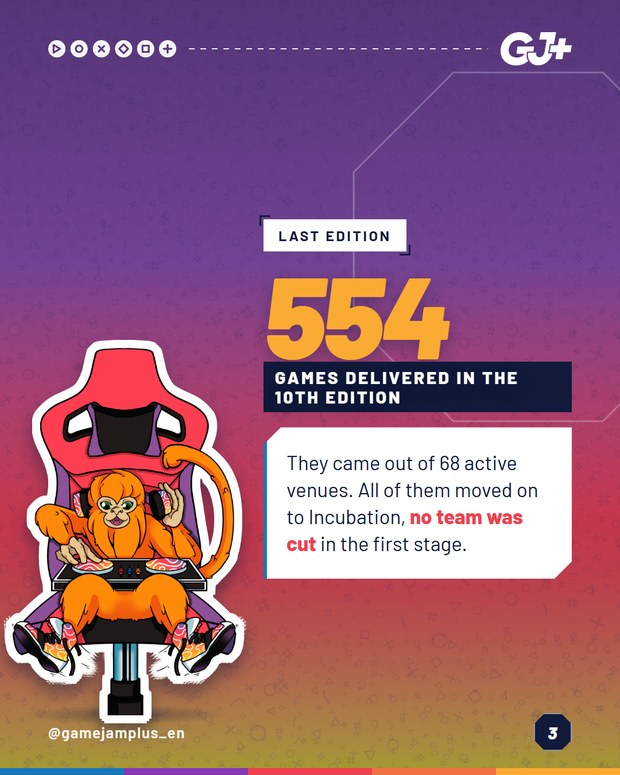
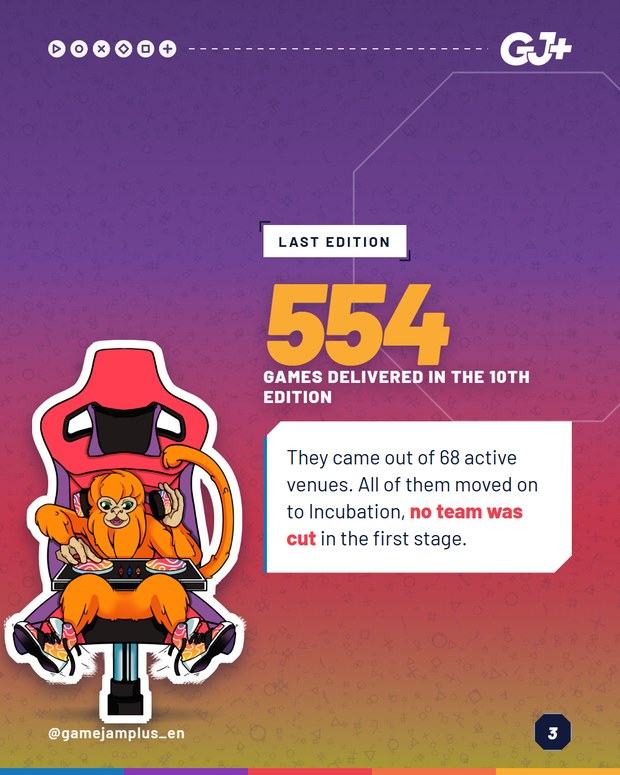
E12 slide 3: rotulo do 554 em branco, igual ao da capa
A chapa de tinta atras de "jogos entregues na 10a edicao" era o unico
lugar do post em que o rotulo de numeral vinha em caixa. Agora e branco
solto, com o mesmo tracking do rotulo da cifra da capa.

Changed region(s): [[0.3984, 0.2787, 0.95, 0.7742]]

diff --git a/index.html b/index.html
@@ -281,7 +281,7 @@ dialog img{width:min(92vw,620px);max-height:92dvh;object-fit:contain;border-radi
 <article class="c" data-cat="01-conteudos-gj" data-lang="PT" data-busca="e12 - o movimento em números gj+" id="c221">
   <header><div><span class="tagcat">GJ+</span><span class="taglang PT">PT</span><h2>E12 - O movimento em números</h2></div>
   <div class="nav"><button aria-label="Anterior" data-d="-1">&#8592;</button><button aria-label="Pr&#243;ximo" data-d="1">&#8594;</button><span class="cont">7</span></div></header>
-  <div class="strip"><figure><img src="img/01-conteudos-gj-pt-e12-o-movimento-em-numeros/slide_01.jpg?v=8" alt="E12 - O movimento em números 1" width="620" height="775" loading="lazy" decoding="async"><figcaption>01</figcaption></figure><figure><img src="img/01-conteudos-gj-pt-e12-o-movimento-em-numeros/slide_02.jpg?v=8" alt="E12 - O movimento em números 2" width="620" height="775" loading="lazy" decoding="async"><figcaption>02</figcaption></figure><figure><img src="img/01-conteudos-gj-pt-e12-o-movimento-em-numeros/slide_03.jpg?v=8" alt="E12 - O movimento em números 3" width="620" height="775" loading="lazy" decoding="async"><figcaption>03</figcaption></figure><figure><img src="img/01-conteudos-gj-pt-e12-o-movimento-em-numeros/slide_04.jpg?v=8" alt="E12 - O movimento em números 4" width="620" height="775" loading="lazy" decoding="async"><figcaption>04</figcaption></figure><figure><img src="img/01-conteudos-gj-pt-e12-o-movimento-em-numeros/slide_05.jpg?v=8" alt="E12 - O movimento em números 5" width="620" height="775" loading="lazy" decoding="async"><figcaption>05</figcaption></figure><figure><img src="img/01-conteudos-gj-pt-e12-o-movimento-em-numeros/slide_06.jpg?v=8" alt="E12 - O movimento em números 6" width="620" height="775" loading="lazy" decoding="async"><figcaption>06</figcaption></figure><figure><img src="img/01-conteudos-gj-pt-e12-o-movimento-em-numeros/slide_07.jpg?v=8" alt="E12 - O movimento em números 7" width="620" height="775" loading="lazy" decoding="async"><figcaption>07</figcaption></figure></div></article>
+  <div class="strip"><figure><img src="img/01-conteudos-gj-pt-e12-o-movimento-em-numeros/slide_01.jpg?v=9" alt="E12 - O movimento em números 1" width="620" height="775" loading="lazy" decoding="async"><figcaption>01</figcaption></figure><figure><img src="img/01-conteudos-gj-pt-e12-o-movimento-em-numeros/slide_02.jpg?v=9" alt="E12 - O movimento em números 2" width="620" height="775" loading="lazy" decoding="async"><figcaption>02</figcaption></figure><figure><img src="img/01-conteudos-gj-pt-e12-o-movimento-em-numeros/slide_03.jpg?v=9" alt="E12 - O movimento em números 3" width="620" height="775" loading="lazy" decoding="async"><figcaption>03</figcaption></figure><figure><img src="img/01-conteudos-gj-pt-e12-o-movimento-em-numeros/slide_04.jpg?v=9" alt="E12 - O movimento em números 4" width="620" height="775" loading="lazy" decoding="async"><figcaption>04</figcaption></figure><figure><img src="img/01-conteudos-gj-pt-e12-o-movimento-em-numeros/slide_05.jpg?v=9" alt="E12 - O movimento em números 5" width="620" height="775" loading="lazy" decoding="async"><figcaption>05</figcaption></figure><figure><img src="img/01-conteudos-gj-pt-e12-o-movimento-em-numeros/slide_06.jpg?v=9" alt="E12 - O movimento em números 6" width="620" height="775" loading="lazy" decoding="async"><figcaption>06</figcaption></figure><figure><img src="img/01-conteudos-gj-pt-e12-o-movimento-em-numeros/slide_07.jpg?v=9" alt="E12 - O movimento em números 7" width="620" height="775" loading="lazy" decoding="async"><figcaption>07</figcaption></figure></div></article>
 <article class="c" data-cat="01-conteudos-gj" data-lang="PT" data-busca="e13 - o que a jam transforma no jogo gj+" id="c222">
   <header><div><span class="tagcat">GJ+</span><span class="taglang PT">PT</span><h2>E13 - O que a jam transforma no jogo</h2></div>
   <div class="nav"><button aria-label="Anterior" data-d="-1">&#8592;</button><button aria-label="Pr&#243;ximo" data-d="1">&#8594;</button><span class="cont">7</span></div></header>
@@ -481,7 +481,7 @@ dialog img{width:min(92vw,620px);max-height:92dvh;object-fit:contain;border-radi
 <article class="c" data-cat="01-conteudos-gj" data-lang="EN" data-busca="e12 - the movement in numbers gj+" id="c224">
   <header><div><span class="tagcat">GJ+</span><span class="taglang EN">EN</span><h2>E12 - The movement in numbers</h2></div>
   <div class="nav"><button aria-label="Anterior" data-d="-1">&#8592;</button><button aria-label="Pr&#243;ximo" data-d="1">&#8594;</button><span class="cont">7</span></div></header>
-  <div class="strip"><figure><img src="img/01-conteudos-gj-en-e12-the-movement-in-numbers/slide_01.jpg?v=8" alt="E12 - The movement in numbers 1" width="620" height="775" loading="lazy" decoding="async"><figcaption>01</figcaption></figure><figure><img src="img/01-conteudos-gj-en-e12-the-movement-in-numbers/slide_02.jpg?v=8" alt="E12 - The movement in numbers 2" width="620" height="775" loading="lazy" decoding="async"><figcaption>02</figcaption></figure><figure><img src="img/01-conteudos-gj-en-e12-the-movement-in-numbers/slide_03.jpg?v=8" alt="E12 - The movement in numbers 3" width="620" height="775" loading="lazy" decoding="async"><figcaption>03</figcaption></figure><figure><img src="img/01-conteudos-gj-en-e12-the-movement-in-numbers/slide_04.jpg?v=8" alt="E12 - The movement in numbers 4" width="620" height="775" loading="lazy" decoding="async"><figcaption>04</figcaption></figure><figure><img src="img/01-conteudos-gj-en-e12-the-movement-in-numbers/slide_05.jpg?v=8" alt="E12 - The movement in numbers 5" width="620" height="775" loading="lazy" decoding="async"><figcaption>05</figcaption></figure><figure><img src="img/01-conteudos-gj-en-e12-the-movement-in-numbers/slide_06.jpg?v=8" alt="E12 - The movement in numbers 6" width="620" height="775" loading="lazy" decoding="async"><figcaption>06</figcaption></figure><figure><img src="img/01-conteudos-gj-en-e12-the-movement-in-numbers/slide_07.jpg?v=8" alt="E12 - The movement in numbers 7" width="620" height="775" loading="lazy" decoding="async"><figcaption>07</figcaption></figure></div></article>
+  <div class="strip"><figure><img src="img/01-conteudos-gj-en-e12-the-movement-in-numbers/slide_01.jpg?v=9" alt="E12 - The movement in numbers 1" width="620" height="775" loading="lazy" decoding="async"><figcaption>01</figcaption></figure><figure><img src="img/01-conteudos-gj-en-e12-the-movement-in-numbers/slide_02.jpg?v=9" alt="E12 - The movement in numbers 2" width="620" height="775" loading="lazy" decoding="async"><figcaption>02</figcaption></figure><figure><img src="img/01-conteudos-gj-en-e12-the-movement-in-numbers/slide_03.jpg?v=9" alt="E12 - The movement in numbers 3" width="620" height="775" loading="lazy" decoding="async"><figcaption>03</figcaption></figure><figure><img src="img/01-conteudos-gj-en-e12-the-movement-in-numbers/slide_04.jpg?v=9" alt="E12 - The movement in numbers 4" width="620" height="775" loading="lazy" decoding="async"><figcaption>04</figcaption></figure><figure><img src="img/01-conteudos-gj-en-e12-the-movement-in-numbers/slide_05.jpg?v=9" alt="E12 - The movement in numbers 5" width="620" height="775" loading="lazy" decoding="async"><figcaption>05</figcaption></figure><figure><img src="img/01-conteudos-gj-en-e12-the-movement-in-numbers/slide_06.jpg?v=9" alt="E12 - The movement in numbers 6" width="620" height="775" loading="lazy" decoding="async"><figcaption>06</figcaption></figure><figure><img src="img/01-conteudos-gj-en-e12-the-movement-in-numbers/slide_07.jpg?v=9" alt="E12 - The movement in numbers 7" width="620" height="775" loading="lazy" decoding="async"><figcaption>07</figcaption></figure></div></article>
 <article class="c" data-cat="01-conteudos-gj" data-lang="EN" data-busca="e13 - what the jam changes in the game gj+" id="c225">
   <header><div><span class="tagcat">GJ+</span><span class="taglang EN">EN</span><h2>E13 - What the jam changes in the game</h2></div>
   <div class="nav"><button aria-label="Anterior" data-d="-1">&#8592;</button><button aria-label="Pr&#243;ximo" data-d="1">&#8594;</button><span class="cont">7</span></div></header>
@@ -549,7 +549,7 @@ dialog img{width:min(92vw,620px);max-height:92dvh;object-fit:contain;border-radi
 <article class="c" data-cat="01-conteudos-gj" data-lang="ES" data-busca="e12 - el movimiento en números gj+" id="c227">
   <header><div><span class="tagcat">GJ+</span><span class="taglang ES">ES</span><h2>E12 - El movimiento en números</h2></div>
   <div class="nav"><button aria-label="Anterior" data-d="-1">&#8592;</button><button aria-label="Pr&#243;ximo" data-d="1">&#8594;</button><span class="cont">7</span></div></header>
-  <div class="strip"><figure><img src="img/01-conteudos-gj-es-e12-el-movimiento-en-numeros/slide_01.jpg?v=8" alt="E12 - El movimiento en números 1" width="620" height="775" loading="lazy" decoding="async"><figcaption>01</figcaption></figure><figure><img src="img/01-conteudos-gj-es-e12-el-movimiento-en-numeros/slide_02.jpg?v=8" alt="E12 - El movimiento en números 2" width="620" height="775" loading="lazy" decoding="async"><figcaption>02</figcaption></figure><figure><img src="img/01-conteudos-gj-es-e12-el-movimiento-en-numeros/slide_03.jpg?v=8" alt="E12 - El movimiento en números 3" width="620" height="775" loading="lazy" decoding="async"><figcaption>03</figcaption></figure><figure><img src="img/01-conteudos-gj-es-e12-el-movimiento-en-numeros/slide_04.jpg?v=8" alt="E12 - El movimiento en números 4" width="620" height="775" loading="lazy" decoding="async"><figcaption>04</figcaption></figure><figure><img src="img/01-conteudos-gj-es-e12-el-movimiento-en-numeros/slide_05.jpg?v=8" alt="E12 - El movimiento en números 5" width="620" height="775" loading="lazy" decoding="async"><figcaption>05</figcaption></figure><figure><img src="img/01-conteudos-gj-es-e12-el-movimiento-en-numeros/slide_06.jpg?v=8" alt="E12 - El movimiento en números 6" width="620" height="775" loading="lazy" decoding="async"><figcaption>06</figcaption></figure><figure><img src="img/01-conteudos-gj-es-e12-el-movimiento-en-numeros/slide_07.jpg?v=8" alt="E12 - El movimiento en números 7" width="620" height="775" loading="lazy" decoding="async"><figcaption>07</figcaption></figure></div></article>
+  <div class="strip"><figure><img src="img/01-conteudos-gj-es-e12-el-movimiento-en-numeros/slide_01.jpg?v=9" alt="E12 - El movimiento en números 1" width="620" height="775" loading="lazy" decoding="async"><figcaption>01</figcaption></figure><figure><img src="img/01-conteudos-gj-es-e12-el-movimiento-en-numeros/slide_02.jpg?v=9" alt="E12 - El movimiento en números 2" width="620" height="775" loading="lazy" decoding="async"><figcaption>02</figcaption></figure><figure><img src="img/01-conteudos-gj-es-e12-el-movimiento-en-numeros/slide_03.jpg?v=9" alt="E12 - El movimiento en números 3" width="620" height="775" loading="lazy" decoding="async"><figcaption>03</figcaption></figure><figure><img src="img/01-conteudos-gj-es-e12-el-movimiento-en-numeros/slide_04.jpg?v=9" alt="E12 - El movimiento en números 4" width="620" height="775" loading="lazy" decoding="async"><figcaption>04</figcaption></figure><figure><img src="img/01-conteudos-gj-es-e12-el-movimiento-en-numeros/slide_05.jpg?v=9" alt="E12 - El movimiento en números 5" width="620" height="775" loading="lazy" decoding="async"><figcaption>05</figcaption></figure><figure><img src="img/01-conteudos-gj-es-e12-el-movimiento-en-numeros/slide_06.jpg?v=9" alt="E12 - El movimiento en números 6" width="620" height="775" loading="lazy" decoding="async"><figcaption>06</figcaption></figure><figure><img src="img/01-conteudos-gj-es-e12-el-movimiento-en-numeros/slide_07.jpg?v=9" alt="E12 - El movimiento en números 7" width="620" height="775" loading="lazy" decoding="async"><figcaption>07</figcaption></figure></div></article>
 <article class="c" data-cat="01-conteudos-gj" data-lang="ES" data-busca="e13 - lo que la jam cambia en el juego gj+" id="c228">
   <header><div><span class="tagcat">GJ+</span><span class="taglang ES">ES</span><h2>E13 - Lo que la jam cambia en el juego</h2></div>
   <div class="nav"><button aria-label="Anterior" data-d="-1">&#8592;</button><button aria-label="Pr&#243;ximo" data-d="1">&#8594;</button><span class="cont">7</span></div></header>

diff --git a/p/e12-es/index.html b/p/e12-es/index.html
@@ -10,7 +10,7 @@
 <meta property="og:site_name" content="GameJamPlus · carrosséis">
 <meta property="og:title" content="E12 - El movimiento en números">
 <meta property="og:description" content="GameJamPlus está en 73 sedes repartidas por 28 países en esta 11ª edición, de Brasil a Zambia, pasando por Suecia y Bangladés. Cada una de esas sedes fu...">
-<meta property="og:image" content="https://gamejamplus-carrosseis.vercel.app/img/01-conteudos-gj-es-e12-el-movimiento-en-numeros/slide_01.jpg?v=8">
+<meta property="og:image" content="https://gamejamplus-carrosseis.vercel.app/img/01-conteudos-gj-es-e12-el-movimiento-en-numeros/slide_01.jpg?v=9">
 <meta property="og:url" content="https://gamejamplus-carrosseis.vercel.app/p/e12-es/">
 <meta name="twitter:card" content="summary_large_image">
 <link rel="preconnect" href="https://fonts.googleapis.com">
@@ -68,7 +68,7 @@ h1{font-size:23px;font-weight:800;letter-spacing:-.5px;margin:8px 0 4px;line-hei
   <p class="sub">7 slides</p>
 
   <div class="palco">
-    <img id="sl" src="../../img/01-conteudos-gj-es-e12-el-movimiento-en-numeros/slide_01.jpg?v=8" alt="E12 - El movimiento en números 1">
+    <img id="sl" src="../../img/01-conteudos-gj-es-e12-el-movimiento-en-numeros/slide_01.jpg?v=9" alt="E12 - El movimiento en números 1">
     <button class="seta e" type="button" aria-label="Anterior">←</button>
     <button class="seta d" type="button" aria-label="Próximo">→</button>
     <span class="cont"><b id="n">1</b>/7</span>
@@ -87,7 +87,7 @@ h1{font-size:23px;font-weight:800;letter-spacing:-.5px;margin:8px 0 4px;line-hei
   <p class="rod">Uso interno, para revisão.</p>
 </div>
 <script>
-const S=["../../img/01-conteudos-gj-es-e12-el-movimiento-en-numeros/slide_01.jpg?v=8","../../img/01-conteudos-gj-es-e12-el-movimiento-en-numeros/slide_02.jpg?v=8","../../img/01-conteudos-gj-es-e12-el-movimiento-en-numeros/slide_03.jpg?v=8","../../img/01-conteudos-gj-es-e12-el-movimiento-en-numeros/slide_04.jpg?v=8","../../img/01-conteudos-gj-es-e12-el-movimiento-en-numeros/slide_05.jpg?v=8","../../img/01-conteudos-gj-es-e12-el-movimiento-en-numeros/slide_06.jpg?v=8","../../img/01-conteudos-gj-es-e12-el-movimiento-en-numeros/slide_07.jpg?v=8"];
+const S=["../../img/01-conteudos-gj-es-e12-el-movimiento-en-numeros/slide_01.jpg?v=9","../../img/01-conteudos-gj-es-e12-el-movimiento-en-numeros/slide_02.jpg?v=9","../../img/01-conteudos-gj-es-e12-el-movimiento-en-numeros/slide_03.jpg?v=9","../../img/01-conteudos-gj-es-e12-el-movimiento-en-numeros/slide_04.jpg?v=9","../../img/01-conteudos-gj-es-e12-el-movimiento-en-numeros/slide_05.jpg?v=9","../../img/01-conteudos-gj-es-e12-el-movimiento-en-numeros/slide_06.jpg?v=9","../../img/01-conteudos-gj-es-e12-el-movimiento-en-numeros/slide_07.jpg?v=9"];
 const LEGTXT="GameJamPlus está en 73 sedes repartidas por 28 países en esta 11ª edición, de Brasil a Zambia, pasando por Suecia y Bangladés. Cada una de esas sedes fue abierta por alguien de la propia ciudad, y nadie fue contratado para eso. La edición pasada esa misma estructura entregó 554 juegos desde 68 sedes activas, y sumando todas las ediciones el ecosistema ya pasó de 2.500 juegos.\n\nCuenta desde qué país sigues la GJ+, quiero ver ese mapa crecer en los comentarios. La inscripción de la 11ª edición está en el link de la bio.\n\n#GameJamPlus #GameJam #GameDev #IndieDev #IndieGames #GameDevCommunity";
 let i=0;
 const img=document.getElementById('sl'),nn=document.getElementById('n'),dots=document.getElementById('dots');

diff --git a/p/e12-pt/index.html b/p/e12-pt/index.html
@@ -10,7 +10,7 @@
 <meta property="og:site_name" content="GameJamPlus · carrosséis">
 <meta property="og:title" content="E12 - O movimento em números">
 <meta property="og:description" content="A GameJamPlus está em 73 sedes espalhadas por 28 países nesta 11ª edição, do Brasil à Zâmbia, passando por Suécia e Bangladesh. Cada uma dessas sedes fo...">
-<meta property="og:image" content="https://gamejamplus-carrosseis.vercel.app/img/01-conteudos-gj-pt-e12-o-movimento-em-numeros/slide_01.jpg?v=8">
+<meta property="og:image" content="https://gamejamplus-carrosseis.vercel.app/img/01-conteudos-gj-pt-e12-o-movimento-em-numeros/slide_01.jpg?v=9">
 <meta property="og:url" content="https://gamejamplus-carrosseis.vercel.app/p/e12-pt/">
 <meta name="twitter:card" content="summary_large_image">
 <link rel="preconnect" href="https://fonts.googleapis.com">
@@ -68,7 +68,7 @@ h1{font-size:23px;font-weight:800;letter-spacing:-.5px;margin:8px 0 4px;line-hei
   <p class="sub">7 slides</p>
 
   <div class="palco">
-    <img id="sl" src="../../img/01-conteudos-gj-pt-e12-o-movimento-em-numeros/slide_01.jpg?v=8" alt="E12 - O movimento em números 1">
+    <img id="sl" src="../../img/01-conteudos-gj-pt-e12-o-movimento-em-numeros/slide_01.jpg?v=9" alt="E12 - O movimento em números 1">
     <button class="seta e" type="button" aria-label="Anterior">←</button>
     <button class="seta d" type="button" aria-label="Próximo">→</button>
     <span class="cont"><b id="n">1</b>/7</span>
@@ -87,7 +87,7 @@ h1{font-size:23px;font-weight:800;letter-spacing:-.5px;margin:8px 0 4px;line-hei
   <p class="rod">Uso interno, para revisão.</p>
 </div>
 <script>
-const S=["../../img/01-conteudos-gj-pt-e12-o-movimento-em-numeros/slide_01.jpg?v=8","../../img/01-conteudos-gj-pt-e12-o-movimento-em-numeros/slide_02.jpg?v=8","../../img/01-conteudos-gj-pt-e12-o-movimento-em-numeros/slide_03.jpg?v=8","../../img/01-conteudos-gj-pt-e12-o-movimento-em-numeros/slide_04.jpg?v=8","../../img/01-conteudos-gj-pt-e12-o-movimento-em-numeros/slide_05.jpg?v=8","../../img/01-conteudos-gj-pt-e12-o-movimento-em-numeros/slide_06.jpg?v=8","../../img/01-conteudos-gj-pt-e12-o-movimento-em-numeros/slide_07.jpg?v=8"];
+const S=["../../img/01-conteudos-gj-pt-e12-o-movimento-em-numeros/slide_01.jpg?v=9","../../img/01-conteudos-gj-pt-e12-o-movimento-em-numeros/slide_02.jpg?v=9","../../img/01-conteudos-gj-pt-e12-o-movimento-em-numeros/slide_03.jpg?v=9","../../img/01-conteudos-gj-pt-e12-o-movimento-em-numeros/slide_04.jpg?v=9","../../img/01-conteudos-gj-pt-e12-o-movimento-em-numeros/slide_05.jpg?v=9","../../img/01-conteudos-gj-pt-e12-o-movimento-em-numeros/slide_06.jpg?v=9","../../img/01-conteudos-gj-pt-e12-o-movimento-em-numeros/slide_07.jpg?v=9"];
 const LEGTXT="A GameJamPlus está em 73 sedes espalhadas por 28 países nesta 11ª edição, do Brasil à Zâmbia, passando por Suécia e Bangladesh. Cada uma dessas sedes foi aberta por alguém da própria cidade, e ninguém foi contratado pra isso. Na edição passada essa mesma estrutura entregou 554 jogos a partir de 68 sedes ativas, e somando todas as edições o ecossistema já passou de 2.500 jogos.\n\nComenta de que país você acompanha a GJ+, quero ver esse mapa crescer nos comentários. A inscrição da 11ª edição está no link da bio.\n\n#GameJamPlus #GameJam #GameDev #IndieDev #IndieGames #GameDevCommunity";
 let i=0;
 const img=document.getElementById('sl'),nn=document.getElementById('n'),dots=document.getElementById('dots');

diff --git a/p/e12-en/index.html b/p/e12-en/index.html
@@ -10,7 +10,7 @@
 <meta property="og:site_name" content="GameJamPlus · carrosséis">
 <meta property="og:title" content="E12 - The movement in numbers">
 <meta property="og:description" content="GameJamPlus is running in 73 venues across 28 countries this 11th edition, from Brazil to Zambia, with Sweden and Bangladesh in between. Every one of th...">
-<meta property="og:image" content="https://gamejamplus-carrosseis.vercel.app/img/01-conteudos-gj-en-e12-the-movement-in-numbers/slide_01.jpg?v=8">
+<meta property="og:image" content="https://gamejamplus-carrosseis.vercel.app/img/01-conteudos-gj-en-e12-the-movement-in-numbers/slide_01.jpg?v=9">
 <meta property="og:url" content="https://gamejamplus-carrosseis.vercel.app/p/e12-en/">
 <meta name="twitter:card" content="summary_large_image">
 <link rel="preconnect" href="https://fonts.googleapis.com">
@@ -68,7 +68,7 @@ h1{font-size:23px;font-weight:800;letter-spacing:-.5px;margin:8px 0 4px;line-hei
   <p class="sub">7 slides</p>
 
   <div class="palco">
-    <img id="sl" src="../../img/01-conteudos-gj-en-e12-the-movement-in-numbers/slide_01.jpg?v=8" alt="E12 - The movement in numbers 1">
+    <img id="sl" src="../../img/01-conteudos-gj-en-e12-the-movement-in-numbers/slide_01.jpg?v=9" alt="E12 - The movement in numbers 1">
     <button class="seta e" type="button" aria-label="Anterior">←</button>
     <button class="seta d" type="button" aria-label="Próximo">→</button>
     <span class="cont"><b id="n">1</b>/7</span>
@@ -87,7 +87,7 @@ h1{font-size:23px;font-weight:800;letter-spacing:-.5px;margin:8px 0 4px;line-hei
   <p class="rod">Uso interno, para revisão.</p>
 </div>
 <script>
-const S=["../../img/01-conteudos-gj-en-e12-the-movement-in-numbers/slide_01.jpg?v=8","../../img/01-conteudos-gj-en-e12-the-movement-in-numbers/slide_02.jpg?v=8","../../img/01-conteudos-gj-en-e12-the-movement-in-numbers/slide_03.jpg?v=8","../../img/01-conteudos-gj-en-e12-the-movement-in-numbers/slide_04.jpg?v=8","../../img/01-conteudos-gj-en-e12-the-movement-in-numbers/slide_05.jpg?v=8","../../img/01-conteudos-gj-en-e12-the-movement-in-numbers/slide_06.jpg?v=8","../../img/01-conteudos-gj-en-e12-the-movement-in-numbers/slide_07.jpg?v=8"];
+const S=["../../img/01-conteudos-gj-en-e12-the-movement-in-numbers/slide_01.jpg?v=9","../../img/01-conteudos-gj-en-e12-the-movement-in-numbers/slide_02.jpg?v=9","../../img/01-conteudos-gj-en-e12-the-movement-in-numbers/slide_03.jpg?v=9","../../img/01-conteudos-gj-en-e12-the-movement-in-numbers/slide_04.jpg?v=9","../../img/01-conteudos-gj-en-e12-the-movement-in-numbers/slide_05.jpg?v=9","../../img/01-conteudos-gj-en-e12-the-movement-in-numbers/slide_06.jpg?v=9","../../img/01-conteudos-gj-en-e12-the-movement-in-numbers/slide_07.jpg?v=9"];
 const LEGTXT="GameJamPlus is running in 73 venues across 28 countries this 11th edition, from Brazil to Zambia, with Sweden and Bangladesh in between. Every one of those venues was opened by someone local, and nobody was hired to do it. Last edition the same structure delivered 554 games out of 68 active venues, and adding up every edition the ecosystem has produced more than 2,500 games.\n\nDrop the country you follow GJ+ from, I want to watch that map grow in the comments. The 11th edition sign-up is in the link in bio.\n\n#GameJamPlus #GameJam #GameDev #IndieDev #IndieGames #GameDevCommunity";
 let i=0;
 const img=document.getElementById('sl'),nn=document.getElementById('n'),dots=document.getElementById('dots');
